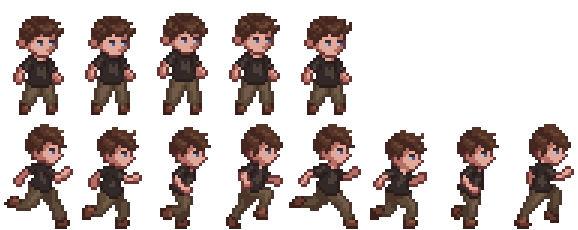
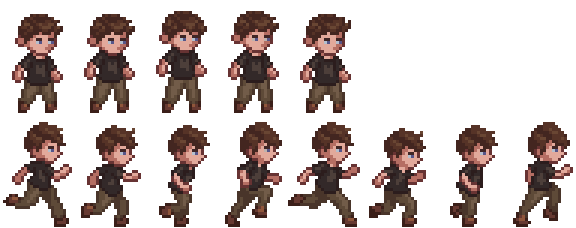
added gravity

diff --git a/src/entity_classes/player.cpp b/src/entity_classes/player.cpp
@@ -83,6 +83,9 @@ void Player::addressInput() {
         velocity.x = -PLAYER_SPEED * GetFrameTime();
     if(getInput().goingRight)
         velocity.x = PLAYER_SPEED * GetFrameTime();
+
+    if(getInput().isJumping)
+        velocity.y = PLAYER_JUMP_SPEED * GetFrameTime();
 }
 
 void Player::handleDirection() {

diff --git a/src/utility/utils.cpp b/src/utility/utils.cpp
@@ -6,7 +6,7 @@ Input getInput() {
 
         (IsKeyDown(KEY_A) || IsKeyDown(KEY_LEFT)),
         (IsKeyDown(KEY_D) || IsKeyDown(KEY_RIGHT)),
-        (IsKeyDown(KEY_W) || IsKeyDown(KEY_UP) || IsKeyDown(KEY_SPACE))
+        (IsKeyPressed(KEY_W) || IsKeyPressed(KEY_UP) || IsKeyPressed(KEY_SPACE))
     };
 }
 

diff --git a/src/utility/utils.hpp b/src/utility/utils.hpp
@@ -104,4 +104,5 @@ namespace Mouse {
 #define PLAYER_WALK_MAX_FRAMES 8
 
 #define PLAYER_SPEED 20000
+#define PLAYER_JUMP_SPEED -60000
 #define GRAVITY 2000
